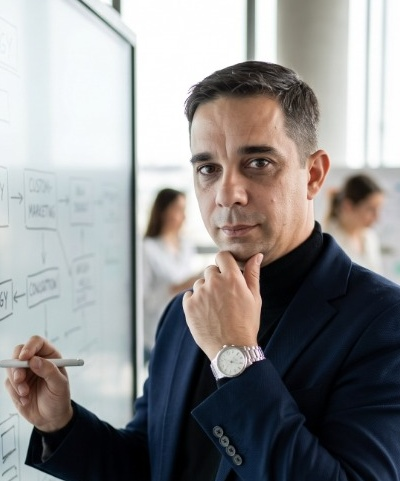
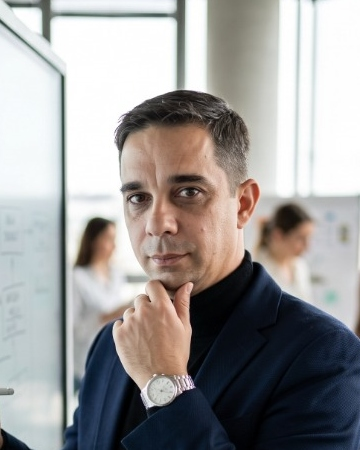
style: Center founder face horizontally and vertically in photo frame

diff --git a/heracleum.html b/heracleum.html
@@ -544,7 +544,7 @@
 <section class="py-16 px-4 sm:px-6 lg:px-8 bg-gray-900 border-t border-b border-gray-800" id="founder">
   <div class="max-w-4xl mx-auto">
     <div class="bg-gray-950 p-8 sm:p-10 rounded-3xl border border-amber-500/30 shadow-2xl flex flex-col md:flex-row items-center md:items-start gap-8">
-      <img src="artem_sokolov.jpg" alt="Соколов Артём Андреевич" class="w-44 h-56 md:w-52 md:h-64 rounded-2xl object-cover object-top border-2 border-amber-500/60 shadow-2xl shadow-amber-500/20 flex-shrink-0 hover:scale-105 transition-transform duration-300">
+      <img src="artem_sokolov.jpg" alt="Соколов Артём Андреевич" class="w-44 h-56 md:w-52 md:h-64 rounded-2xl object-cover object-center border-2 border-amber-500/60 shadow-2xl shadow-amber-500/20 flex-shrink-0 hover:scale-105 transition-transform duration-300">
       <div class="space-y-4 text-center md:text-left flex-1">
         <div class="inline-flex items-center gap-2 px-3 py-1 rounded-full bg-amber-500/10 border border-amber-500/30 text-amber-400 text-xs font-semibold">
           <span class="w-2 h-2 rounded-full bg-amber-400 animate-pulse"></span>

diff --git a/index.html b/index.html
@@ -808,7 +808,7 @@
 <section class="py-16 px-4 sm:px-6 lg:px-8 bg-gray-900 border-t border-b border-gray-800" id="founder">
   <div class="max-w-4xl mx-auto">
     <div class="bg-gray-950 p-8 sm:p-10 rounded-3xl border border-amber-500/30 shadow-2xl flex flex-col md:flex-row items-center md:items-start gap-8">
-      <img src="artem_sokolov.jpg" alt="Соколов Артём Андреевич" class="w-44 h-56 md:w-52 md:h-64 rounded-2xl object-cover object-top border-2 border-amber-500/60 shadow-2xl shadow-amber-500/20 flex-shrink-0 hover:scale-105 transition-transform duration-300">
+      <img src="artem_sokolov.jpg" alt="Соколов Артём Андреевич" class="w-44 h-56 md:w-52 md:h-64 rounded-2xl object-cover object-center border-2 border-amber-500/60 shadow-2xl shadow-amber-500/20 flex-shrink-0 hover:scale-105 transition-transform duration-300">
       <div class="space-y-4 text-center md:text-left flex-1">
         <div class="inline-flex items-center gap-2 px-3 py-1 rounded-full bg-amber-500/10 border border-amber-500/30 text-amber-400 text-xs font-semibold">
           <span class="w-2 h-2 rounded-full bg-amber-400 animate-pulse"></span>
